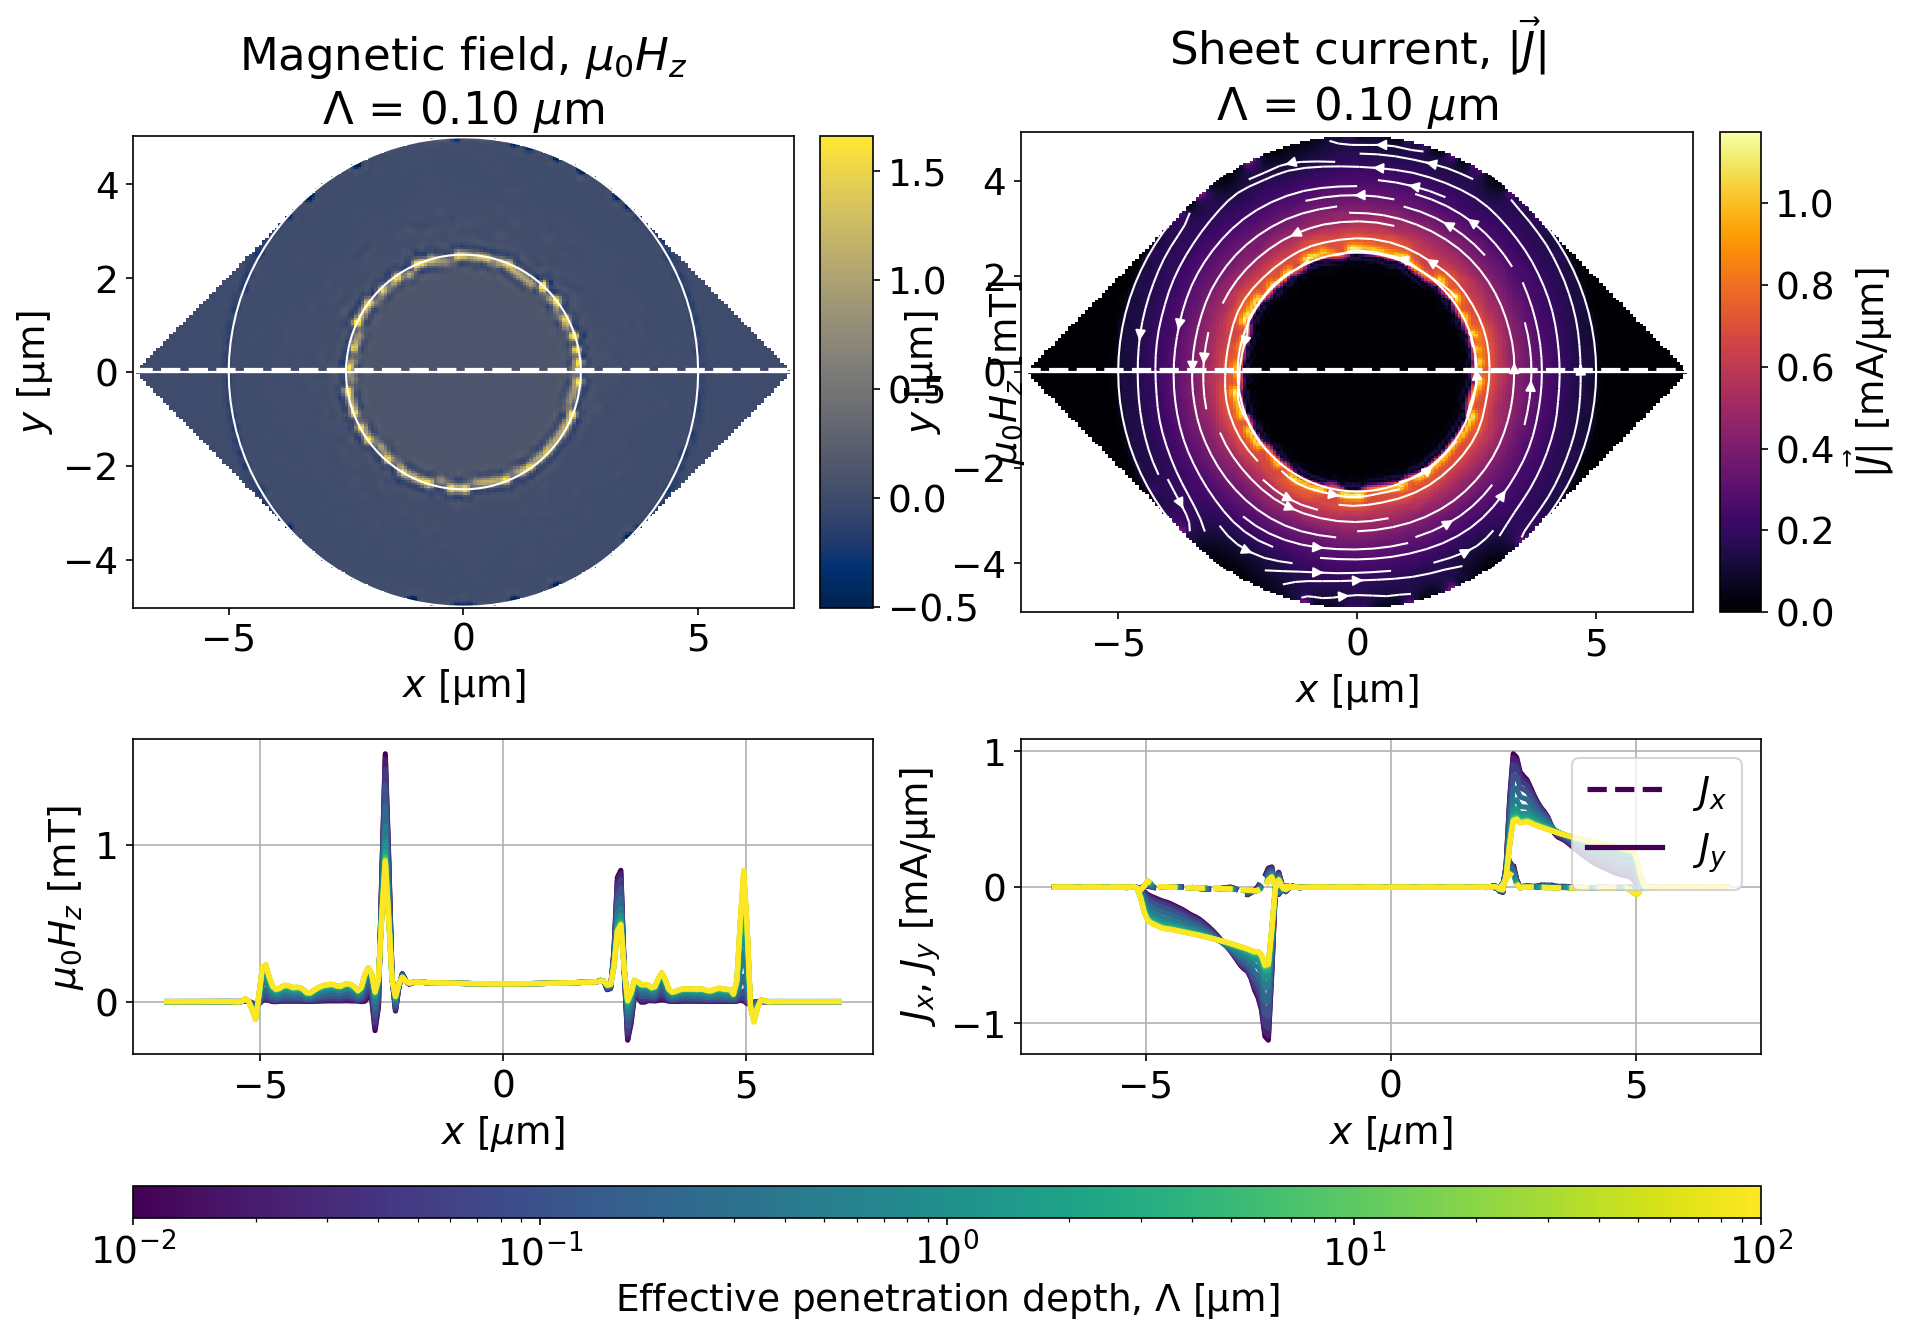
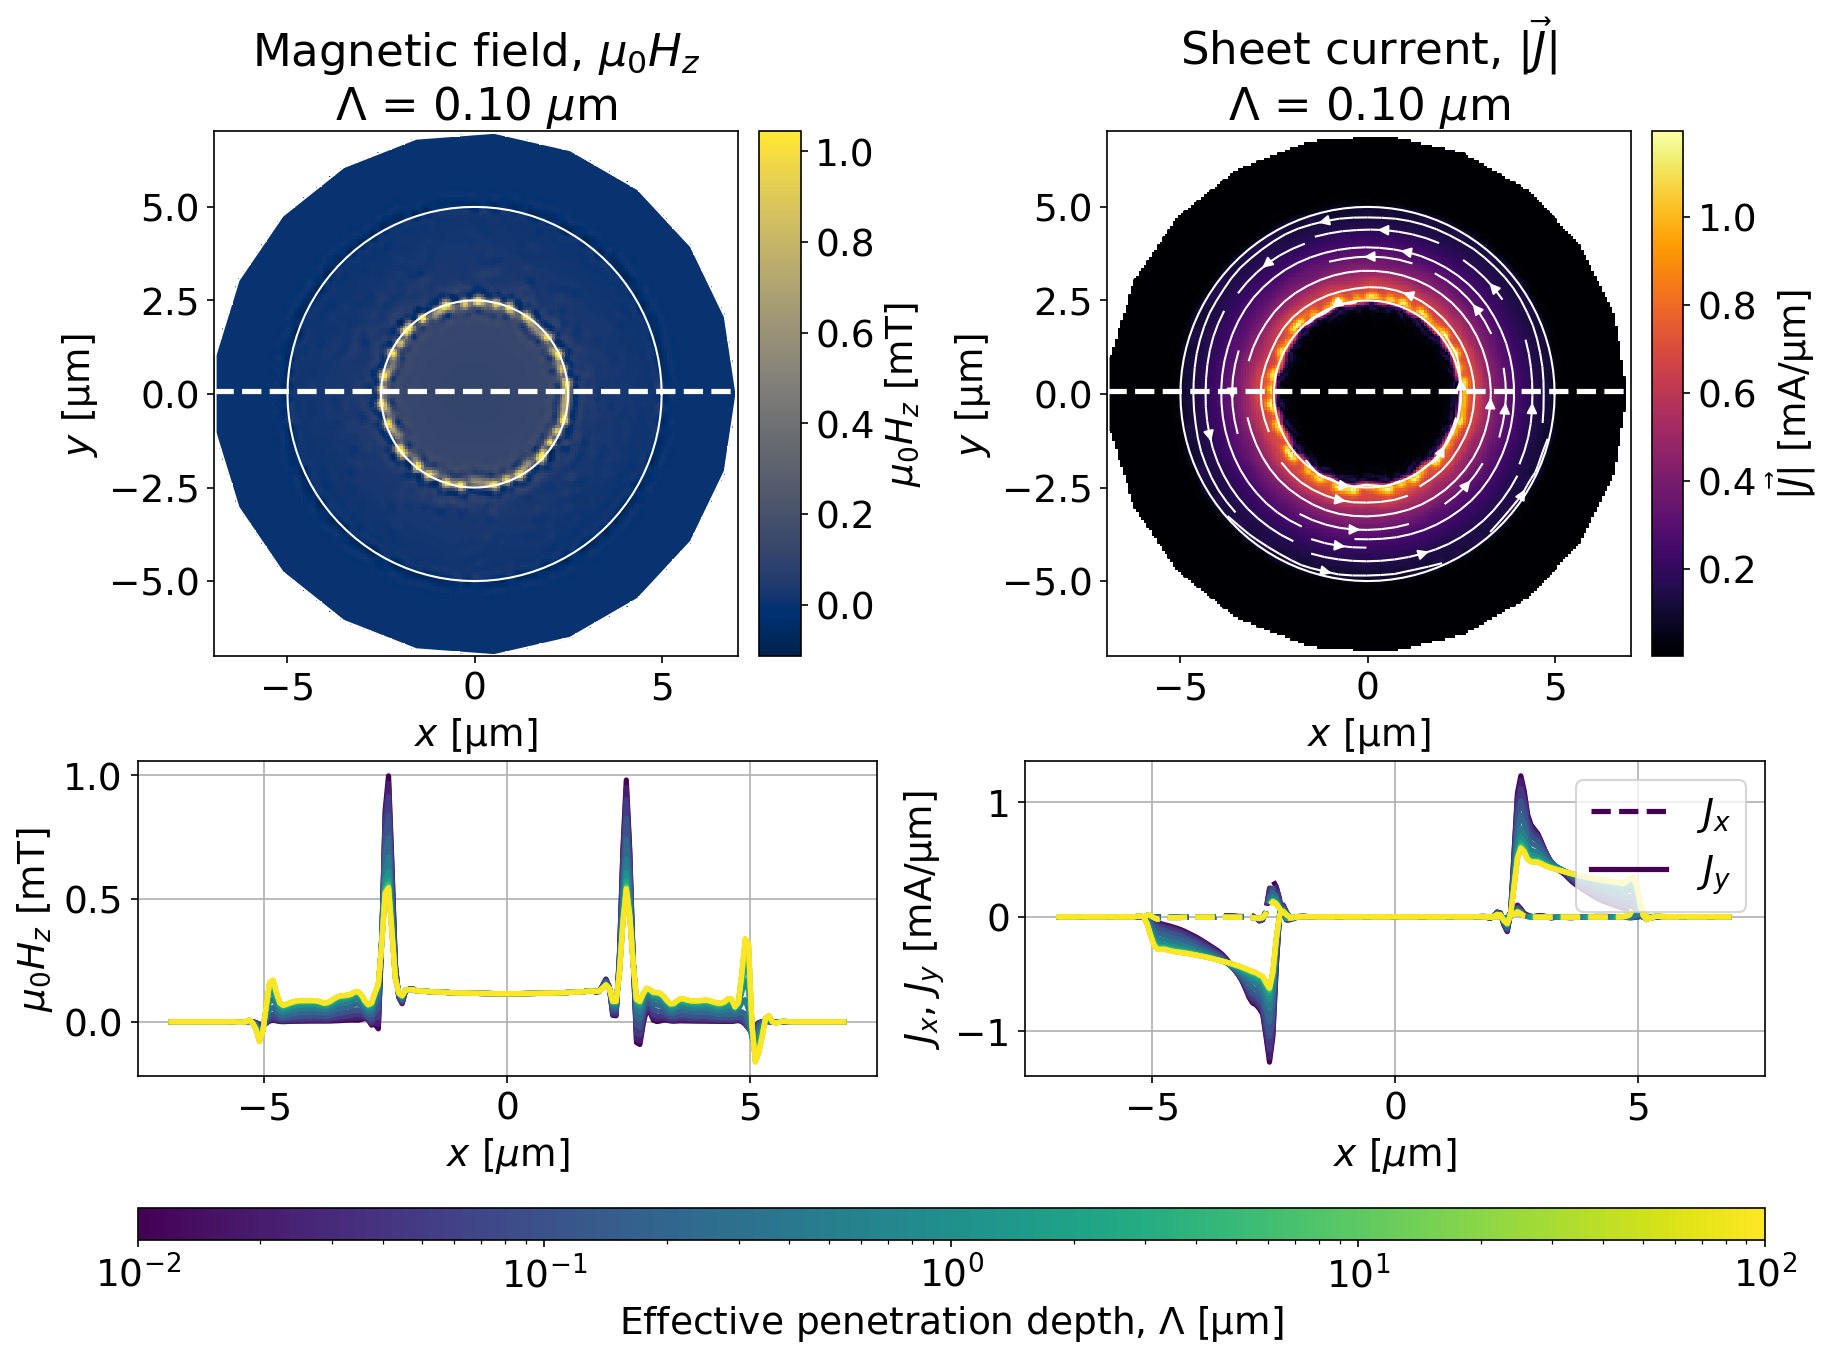
typo

diff --git a/examples/scripts/ring.py b/examples/scripts/ring.py
@@ -30,7 +30,7 @@ def make_ring(
         name = "circular_ring"
         outer_points = sc.geometry.circle(outer_radius)
         inner_points = sc.geometry.circle(inner_radius)
-        bbox_points = sc.geometry.circle(outer_radius * 1.4, points=2)
+        bbox_points = sc.geometry.circle(outer_radius * 1.4, points=21)
 
     layers = [sc.Layer("base", Lambda=Lambda, z0=0)]
     films = [sc.Polygon("ring", layer="base", points=outer_points)]
